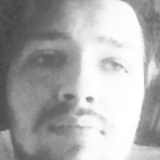
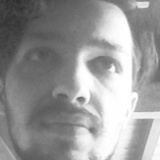
created class for face detection and implemented basic logic, object now handles face detection through webcam and is able to save one image of detected face

diff --git a/Models/faceDetection.py b/Models/faceDetection.py
@@ -1,0 +1,62 @@
+import cv2
+import sys
+import threading
+import time
+
+class FaceDetection(threading.Thread):
+    def __init__(self):
+        threading.Thread.__init__(self)
+        self.path_to_haarcascade = self.get_haarcascade()
+        self.face_cascade = cv2.CascadeClassifier() # Face detection classifier
+        self.face_cascade.load(self.path_to_haarcascade)
+        self.cap = cv2.VideoCapture(0)    
+    
+    def run(self):
+        """
+        Main thread that does the actual face detection.
+        """
+        while True:
+            ret, frame = self.cap.read()
+            if frame is None:
+                print('--(!) No captured frame -- Break!')
+                break
+            self.detectAndDisplay(frame)
+            if cv2.waitKey(10) == 27:
+                break
+
+    def get_haarcascade(self):
+        """
+        Finding the path to haarcascades on local system
+        """
+        if sys.platform == 'win32':
+            cv_file = cv2.__file__ # Get the path to opencv executable
+            cv_file = str(cv_file)
+            cv_file = cv_file.rsplit('\\', 1)[0] # Leaves us at root of opencv directory
+            cv_file = cv_file + "\data\haarcascade_frontalface_alt.xml"
+            return cv_file 
+        else:
+            cv_file = cv2.__file__ # Get the path to opencv executable
+            cv_file = str(cv_file)
+            cv_file = cv_file.rsplit('/', 1)[0] # Leaves us at root of opencv directory
+            cv_file = cv_file + "/data/haarcascade_frontalface_alt.xml"
+            return cv_file 
+
+    def detectAndDisplay(self, frame):
+        frame_gray = cv2.cvtColor(frame, cv2.COLOR_BGR2GRAY)
+        frame_gray = cv2.equalizeHist(frame_gray)
+        #-- Detect faces
+        faces = self.face_cascade.detectMultiScale(frame_gray)
+        for (x,y,w,h) in faces:
+            cv2.rectangle(frame, (x, y), (x + w, y + h),(0,255,0),thickness=4)
+            faceROI = frame_gray[y:y+h,x:x+w]
+            if sys.platform == 'win32':
+                file_name = 'data\image.jpg'
+            else:
+                file_name = 'data/image.jpg'
+                
+            faceROI = cv2.resize(faceROI,(160,160))    
+            cv2.imwrite(file_name, faceROI)
+        cv2.imshow('Capture - Face detection', frame)
+
+detection = FaceDetection()
+detection.start()
